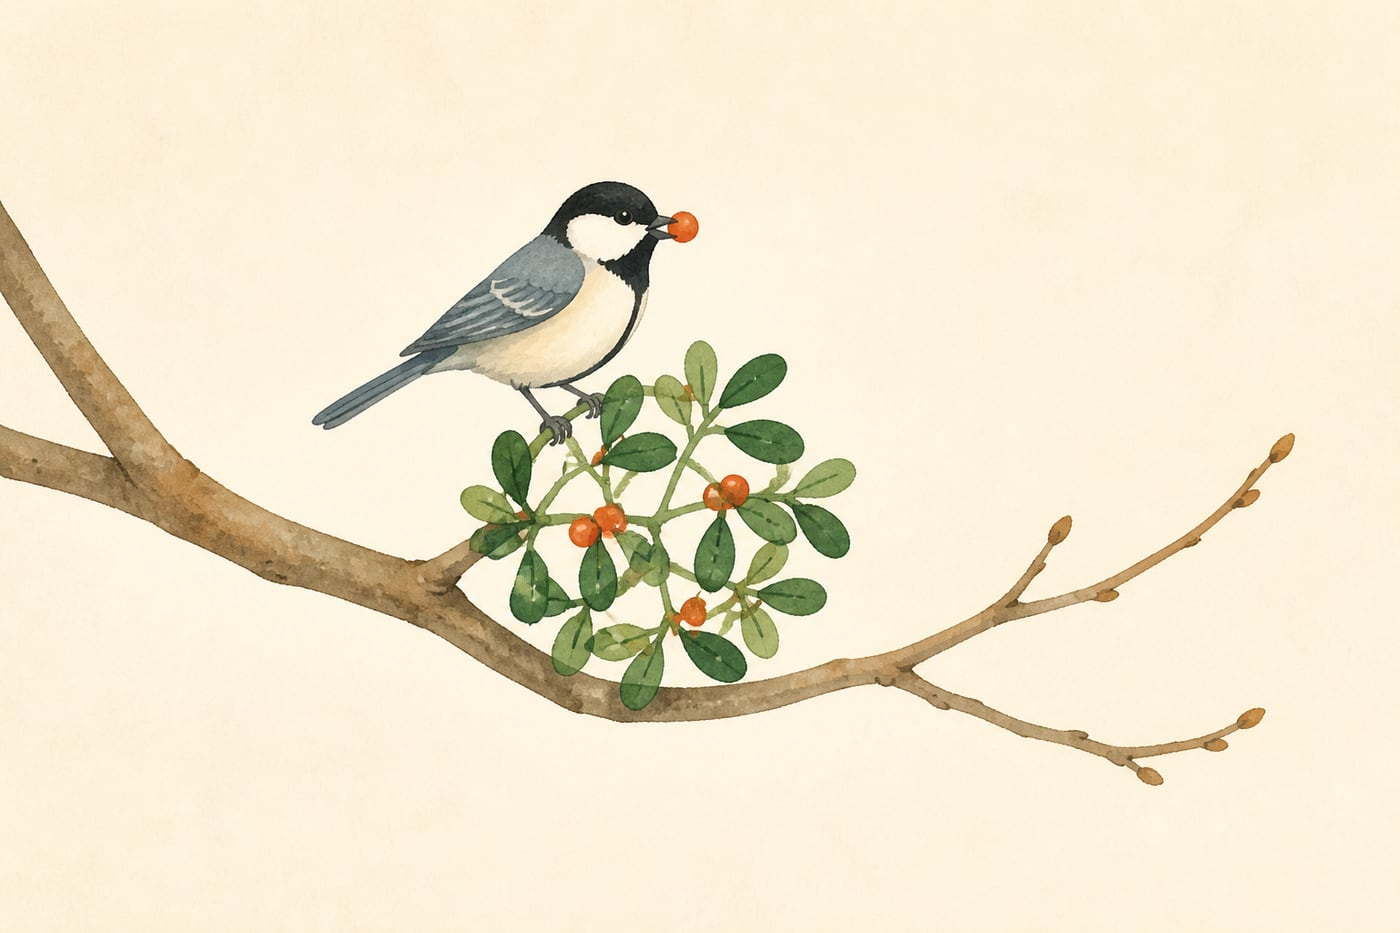
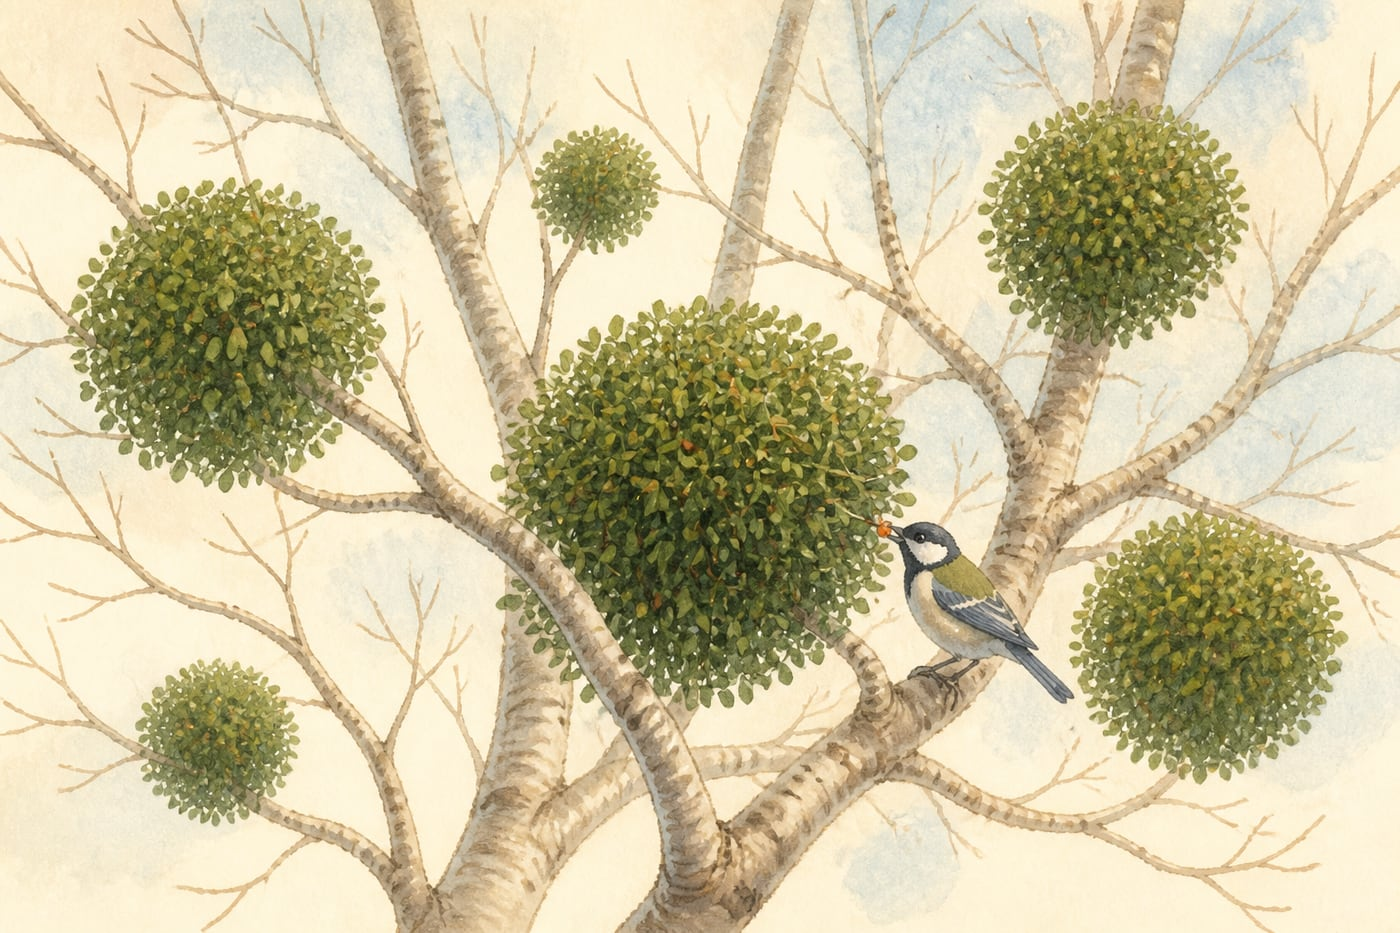
LP worldview v3: many mistletoe spheres as multiverse metaphor.

diff --git a/src/app/lp/page.tsx b/src/app/lp/page.tsx
@@ -56,7 +56,7 @@ export default function LandingPage() {
               height={933}
             />
             <figcaption className="border-t border-viscum-line px-4 py-3 text-[13px] leading-relaxed text-viscum-muted">
-              ヤドリギは木に寄り添う丸い房。鳥が実を運び、種を落とす——つくった人が種を撒き、反応が寄り添い、また次が育つ。
+              一本の木に、いくつもの丸いヤドリギ——それぞれの種が、それぞれの世界を育てる。鳥が実を運び、反応が寄り添う。
             </figcaption>
           </figure>
           <p className="text-[15px] leading-relaxed text-viscum-ink">
